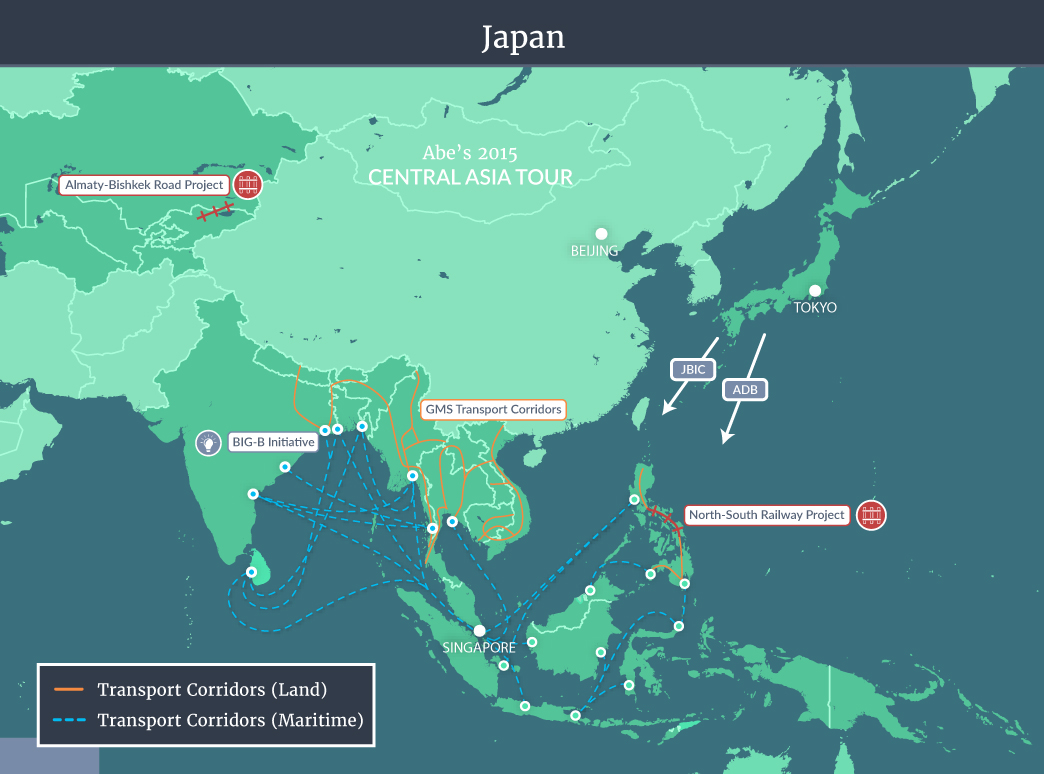
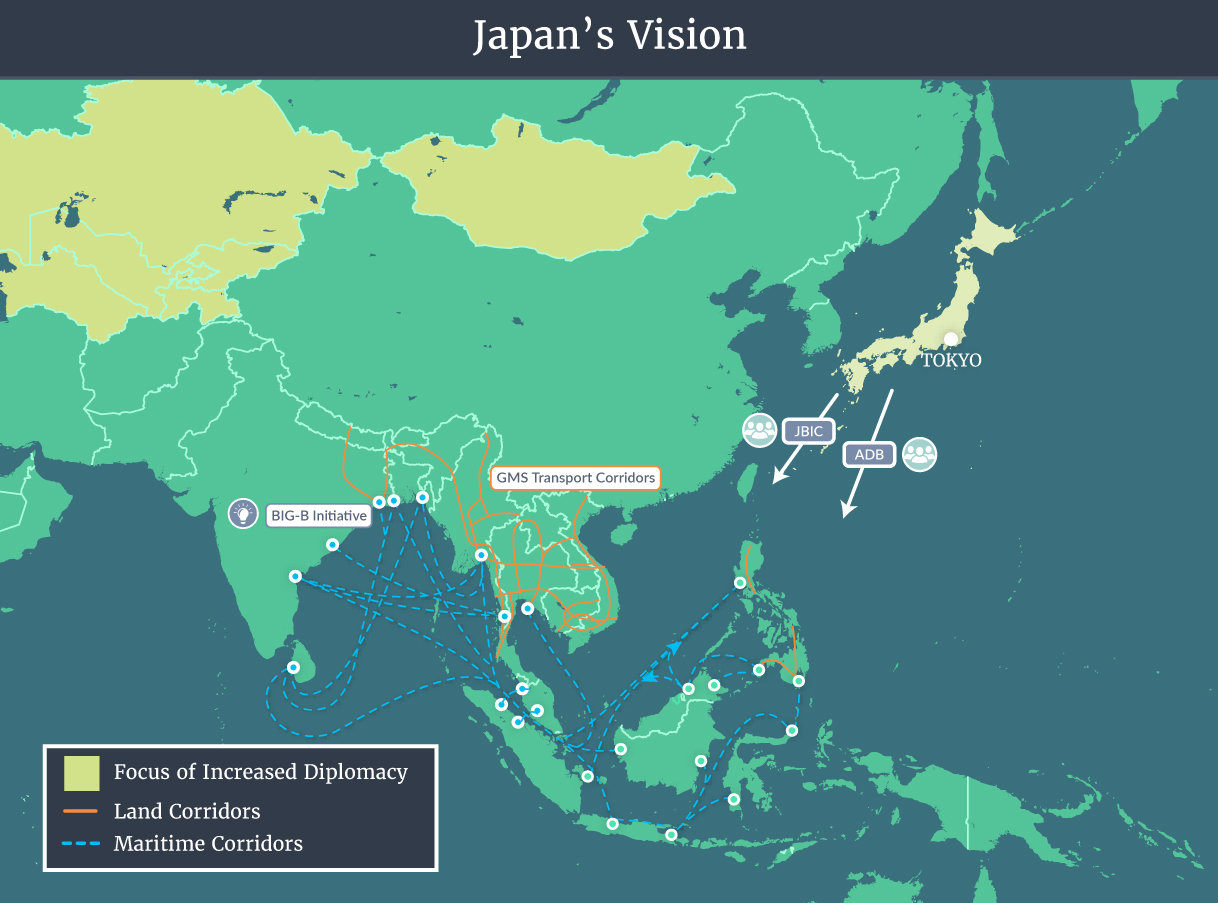
Update crap on competing visions mockup

diff --git a/website/templates/website/competing_visions.html b/website/templates/website/competing_visions.html
@@ -12,20 +12,24 @@
         <h1>Competing Visions</h1>
     </header>
     <section class="featured">
-        <p>A contest is underway to shape Eurasia's future. Regional powers are putting forward ambitious plans for building roads, railways, pipelines, and other hard infrastructure across the region. These new connections could deepen integration and expand prosperity. They also have the potential to reconfigure relationships, reroute flows of goods and people, and shift power within and between states. But critical questions remain about the feasibility of underlying projects, which face obstacles as big and diverse as the region itself. <b><em>Reconnecting Asia</em></b> is your front row seat to watch whether these visions become reality.</p>
-        <p>The maps below illustrate the competing visions of seven leading actors. Based on official documents, each map shows the dominant elements of their continent-crossing initiatives alongside individual projects characteristic of the larger, more complex whole. Collectively, these maps provide an aspirational canvas against which actual progress can be tracked. Click on items below each map to explore individual projects, events, and initiatives in greater detail. Check back as this collection expands to include the visions of more key actors and adds new data to tell this grand story as it unfolds.</p>
+        <p>A contest is underway to shape Eurasia's future. Regional powers are putting forward ambitious plans for building roads, railways, pipelines, and other hard infrastructure across the region. These new connections could deepen integration and expand prosperity. They also have the potential to reconfigure relationships, reroute flows of goods and people, and shift power within and between states. But critical questions remain about the feasibility of underlying projects, which face obstacles as big and diverse as the region itself. <em><strong>Reconnecting Asia</strong></em> is your front row seat to watch whether these visions become reality.</p>
+        <p>The maps below illustrate the competing visions of four leading actors. In line with Reconnecting Asia's focus, they concentrate on infrastructure. Given that each nation's vision is a function of its own interests, capabilities, history, geography, and other factors, these maps include a variety of components, all of which are based on official sources. Collectively, they provide an aspirational canvas against which actual progress can be tracked. Click on items below each map to explore the projects and initiatives underlying these visions. Check back as this collection expands to include the visions of more key actors and adds new data to tell this story as it unfolds.</p>
+    </section>
+    <section>
+        <img src="https://s3.amazonaws.com/reconasia-production/static/img/competing-visions/Competing_visions_One_Belt_One_Road.jpg" alt="Map of China's Vision">
+        <p>Announced in 2013, China's <strong>One Belt One Road (OBOR</strong>) initiative drives across the Eurasian landmass in two grand sweeps: the ocean-based <strong>21<sup>st</sup> Century Maritime Silk Road</strong> and the overland <strong>Silk Road Economic Belt</strong>. As Chinese President <strong>Xi Jinping</strong>'s signature foreign policy effort, OBOR is striking for its opacity as well as its ambition. On the surface, it imagines a future Eurasia where all routes lead to Beijing. As an open-ended framework, however, the initiative is less clear. It combines new projects and older efforts, covers an uncertain geographic scope, and includes efforts to strengthen hard infrastructure, soft infrastructure, and even cultural ties.</p>
     </section>
     <section>
         <img src="https://s3.amazonaws.com/reconasia-production/static/img/competing-visions/Competing_visions_Japan.jpg" alt="Map of Japan's vision" />
-        <p>Tokyo's vision stems from long practical experience. Japanese companies have been investing in Southeast Asia for decades, and the structure of the region's infrastructure strongly reflects the needs of their supply chains, especially maintaining access to the sea. Through efforts like its <a href="/database/initiatives/partnership-high-quality-infrastructure/90f84bc6-3fa5-48ae-acdb-ddd5bd606e00/">Partnership for High Quality Infrastructure</a>, which promises to boost regional infrastructure financing by $110 billion over five years, Tokyo has acted swiftly to defend its influence and incumbent advantage. Emphasizing the importance of &ldquo;high-quality and sustainable infrastructure,&rdquo; these efforts also focus on the countries of South Asia, where Japan is promoting the <a href="#">Bay of Bengal Industrial Growth Belt (BIG-B)</a>. Japanese Prime Minister <a href="/database/people/shinzo-abe/aff6fae3-e550-43ba-be6b-abca85c759b3/">Shinzo Abe</a> has also made a point of expanding Tokyo's diplomatic footprint, becoming the first sitting Japanese leader to visit all five countries of Central Asia.</p>
+        <p>Prioritizing east-west connections, Japan's vision stems from decades of investing in Southeast Asia, where existing infrastructure reflects the needs of Japanese supply chains, especially maintaining access to the sea. Japan is acting swiftly to defend this incumbent advantage, dedicating funding to expand &ldquo;high-quality and sustainable infrastructure&rdquo; in the region. Supporting the <strong>Master Plan on ASEAN Connectivity</strong>, Japan is backing a number of new land and maritime corridors that would increase connectivity between the Indian Ocean and the South China Sea. Japanese Prime Minister <strong>Shinzo Abe</strong> has also expanded Japan's diplomatic footprint, becoming the first sitting Japanese leader to visit all five countries of Central Asia.</p>
     </section>
     <section>
         <img src="https://s3.amazonaws.com/reconasia-production/static/img/competing-visions/Competing_Visions_South_Korea.jpg" alt="Map of South Korea's vision">
-        <p>President <a href="">Park Geun-hye</a>'s <a href="">Eurasian Initiative</a> has OBOR's expansive ambition, incorporating railways from Seoul to the heart of Europe, shipping lanes through the Arctic, enhanced fiber optic networks such as the <a href="">Trans-Eurasian Information Network (TEIN)</a> throughout Southeast Asia, and strengthened bilateral relations with Uzbekistan, Kazakhstan, and Mongolia. Beneath this, South Korea's aid strategy mirrors that of Japan, with the activities of its <a href="">Export-Import Bank</a> and <a href="">Economic Development Cooperation Fund</a> focused on enhancing and extending the existing patterns in Southeast Asia's infrastructure. Seoul's vision also accounts for North Korea, featuring both an imagined rail line straight through the demilitarized zone and an alternative undersea route for bypassing the North and connecting directly to Russia's existing rail network.</p>
+        <p>President <strong>Park Geun-hye</strong>'s <strong>Eurasian Initiative</strong> is expansive, incorporating railways from Seoul to the heart of Europe, shipping lanes through the Arctic, and enhanced fiber optic networks such as the <strong>Trans-Eurasian Information Network (TEIN)</strong> throughout Southeast Asia. Through increased diplomacy, South Korea is laying the groundwork for stronger relationships in the region and expanding its commercial relationship with <strong>Kazakhstan</strong> in particular. Accounting for <strong>North Korea</strong>, this vision includes an imagined rail line through the demilitarized zone and an alternative undersea route for bypassing the North and connecting to <strong>Russia</strong>'s rail network.</p>
     </section>
     <section>
         <img src="https://s3.amazonaws.com/reconasia-production/static/img/competing-visions/Competing-Visions_India-Vision.jpg" alt="Map of India's Vision" />
-        <p>While primarily focused on increasing connectivity within its own borders, India is active in some regional integration efforts, including the <a href="">South Asian Association for Regional Cooperation (SAARC)</a>. Other projects reflect India's geopolitical interests. By developing <a href="">Chabahar Port</a> in Iran, for example, India aims to bypass Pakistan and access overland routes to Europe and Central Asia. Meanwhile, Prime Minister <a href="">Narendra Modi</a>'s &ldquo;Act East&rdquo; policy aims to strengthen links between India and ASEAN nations, in part through projects such as the <a href="">Trilateral Highway</a>, which connects India's Eastern region to Thailand through Myanmar.</p>
+        <p>While primarily focused on increasing connectivity within its own borders, India has tried to revive the <strong>South Asian Association for Regional Cooperation (SAARC)</strong> as a forum for regional integration. Other efforts reflect India's geopolitical interests. By developing <strong>Chabahar Port</strong> in <strong>Iran</strong>, for example, India aims to bypass Pakistan and access overland routes to Europe and Central Asia. Meanwhile, Prime Minister <strong>Narendra Modi</strong>'s <strong>&ldquo;Act East&rdquo;</strong> policy aims to strengthen links between India and <strong>ASEAN</strong> nations, giving India's landlocked northeast region better access to its southern ports and establishing new land corridors connecting India to <strong>Thailand</strong> through <strong>Myanma</strong>r.</p>
     </section>
 </article>
 {% endblock %}
